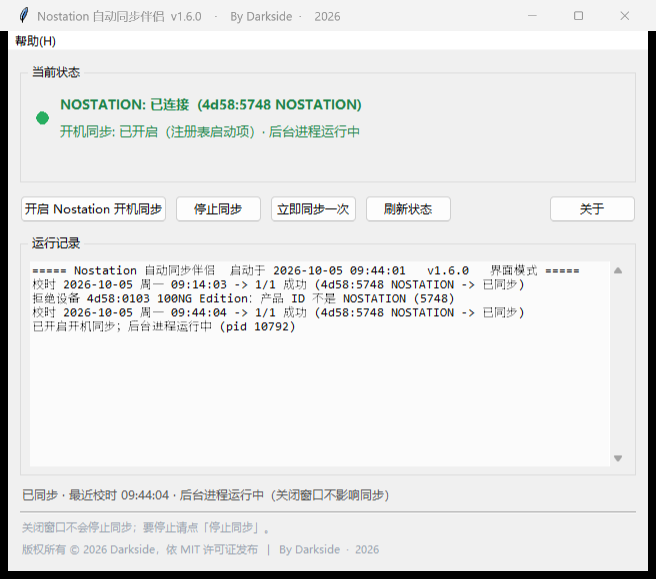
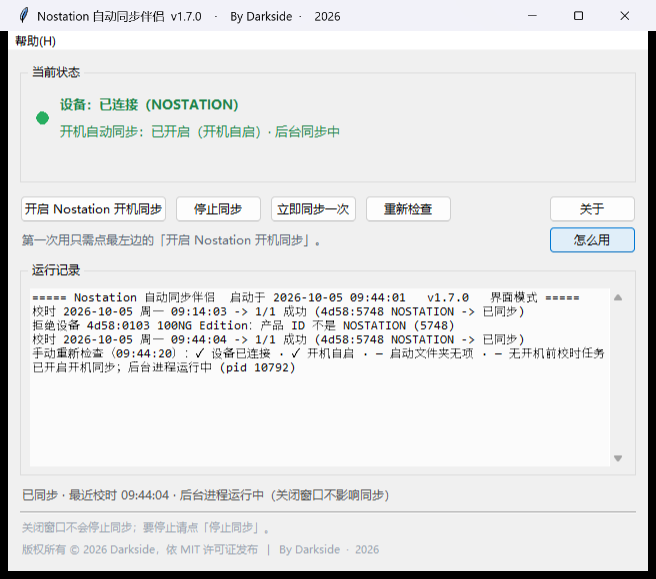
feat(v1.7.0): 新增「怎么用」帮助页；「重新检查」不再点了没反应
反馈：点了「刷新状态」日志里什么也不出现，看着像没反应。

原因：refresh() 只调 _collect_state/_apply_state 刷界面文字，不写任何日志；
状态本来就正常时，唯一的反馈就是状态栏文字闪一下，等于没有反馈。

改动：
- 「重新检查」改为写入运行记录，逐项列出结果，例如
  「手动重新检查（09:44:20）：✓ 设备已连接 · ✓ 开机自启 · — 启动文件夹无项
   · — 无开机前校时任务 · ✓ 后台同步运行中」，✓ 正常 / ✗ 有问题 / — 本来就没设置；
  有问题时补充一行说明（路径失效、后台进程没在跑等）
- 按钮「刷新状态」改名「重新检查」，更贴合它实际做的事
- 新增帮助页（菜单 帮助 → 怎么用，以及按钮下方「怎么用」按钮）：
  四个按钮逐个说明作用/结果/使用时机、指示灯含义、状态区读法、
  按钮为什么变灰、日志每行的意思、常见问题（含"拒绝设备"为什么正常）
- 界面文案降低门槛：不再显示 4d58:5748 这类设备 ID（完整 ID 仍写日志便于排查），
  「注册表启动项(路径已失效)」改为「开机自启(路径已失效，运行一次即可自动修正)」，
  「计划任务」改为「开机前校时任务」
- 按钮下方加一行引导：「第一次用只需点最左边的「开启 Nostation 开机同步」。」
  （先 pack 右侧按钮再放文字，避免文字过长把按钮挤掉）
- README 补上按钮对照表、状态区读法、置灰原因、日志含义
- assets/ui-preview.png 用 1.7.0 界面重新抓取

另补：CHANGELOG 缺 1.6.0 一条（当时直接改了版本号），现已补记。

diff --git a/companion_app.py b/companion_app.py
@@ -37,10 +37,15 @@ import traceback
 
 APP_TITLE = "Nostation 自动同步伴侣"
 APP_NAME_EN = "Nostation Auto Sync Companion"
-APP_VERSION = "1.6.0"
-APP_BUILD = 160
+APP_VERSION = "1.7.0"
+APP_BUILD = 170
 # 版本历史（每次迭代都要改 APP_VERSION / APP_BUILD 并在这里记一行）
 CHANGELOG = [
+    ("1.7.0", "新增「怎么用」帮助页，逐个说明四个按钮、指示灯、状态区、日志含义与"
+              "常见问题；「重新检查」会写明本次检查结果，不再点了没反应；"
+              "按钮下方加引导提示，界面文案去掉对普通用户无意义的设备 ID 与术语"),
+    ("1.6.0", "改为 MIT 许可证开源发布；许可条款与「关于」同步改写，"
+              "exe 属性里的版权信息也改为 MIT License"),
     ("1.5.5", "「关于」与许可条款里写明：本软件免费但【不是开源软件】，"
               "并显示项目主页；修正图标尺寸预览图的排版错位"),
     ("1.5.4", "修复桌面上一直挂着一个 420×200 启动画面：PyInstaller 的闪屏在"
@@ -459,6 +464,154 @@ def license_message():
     return "\n".join(head + [LICENSE_TERMS] + tail)
 
 
+def help_text():
+    """使用说明：每个按钮/指示灯是干什么的（面向第一次用的人）。"""
+    return """\
+这个软件只做一件事：让你的 NOSTATION hub 每次开机自动校准时间，
+不用再手动打开 config.matrix-lab.com 网页点同步。
+
+──────────────────────────────────────────
+一、四个按钮是干什么的
+──────────────────────────────────────────
+【开启 Nostation 开机同步】——最常用的按钮，点一次就好
+    作用：把开机自启装到系统里（写入当前用户的启动项），
+          并立刻启动后台同步进程。
+    结果：以后每次开机自动校时；现在也会马上同步一次。
+    提示：点一次就够，不需要每次开机都点。重复点不会出问题。
+
+【停止同步】——想彻底关掉时点它
+    作用：清理全部自启项（注册表项、启动文件夹、计划任务），
+          并结束后台同步进程。
+    结果：程序不再自动校时；清理完会逐项核验，确认没有残留。
+    提示：设备没插着也能点（故意设计成这样，否则拔了设备就关不掉）。
+
+【立即同步一次】——手动校时
+    作用：马上把本机时间写入设备一次。
+    结果：运行记录里会多一行「校时 …… 成功」。
+    提示：适合刚开机还没触发自动同步、或想确认设备通不通的时候。
+
+【重新检查】——刷新界面显示的状态
+    作用：重新核对五件事并显示出来：① 设备插没插 ② 开机自启在不在
+          ③ 启动文件夹里有没有 ④ 有没有开机前校时任务 ⑤ 后台同步在不在跑。
+    结果：运行记录里会写一行「手动重新检查：✓…✗…」，一眼能看出哪项不对。
+    提示：界面每 3 秒会自动检查「设备插拔」，但另外几项不会自动重查；
+          你手动改过自启、或觉得显示和实际不符时，点它。
+
+──────────────────────────────────────────
+二、上面那个状态区怎么看
+──────────────────────────────────────────
+左边的小圆点（指示灯）
+    绿色 = 后台同步进程在运行      红色 = 后台同步没在运行
+    —— 它反映的是「同步程序在不在跑」，不是「设备插没插」。
+
+设备：
+    已连接（NOSTATION）            设备正常，可以校时
+    未检测到 NOSTATION（请检查 USB 连接）
+                                  没找到设备；此时下面两个需要设备的
+                                  按钮会变灰，点不动
+
+开机自动同步：
+    已开启（开机自启）· 后台同步中  一切正常
+    未开启                          点「开启…」按钮即可
+    已开启（开机自启(路径已失效…)）  程序被挪过位置，运行一次会自动修正
+
+──────────────────────────────────────────
+三、为什么有的按钮是灰的
+──────────────────────────────────────────
+没检测到 NOSTATION 时，「开启开机同步」和「立即同步一次」会变灰不能点，
+这是故意的 —— 防止误操作。插好设备后 3 秒内会自动恢复，也可以点
+「重新检查」立即恢复。
+
+「停止同步」任何时候都能点：设备拔了、收起来了，你仍然要能关掉开机自启。
+
+──────────────────────────────────────────
+四、运行记录里的那几行是什么意思
+──────────────────────────────────────────
+校时 2026-10-05 周一 09:14:03 -> 1/1 成功 (… -> 已同步)
+    成功把本机时间写进设备。1/1 表示找到 1 台 NOSTATION、成功 1 台。
+
+拒绝设备 4d58:0103 100NG Edition：产品 ID 不是 NOSTATION (5748)
+    这是正常现象，不用担心。你机器上还有别的 Matrix Lab 设备时，
+    程序会检查它、发现不是 NOSTATION 就拒绝操作，并记录一行作为证明：
+    「本程序只动 NOSTATION 这一台」。同一台设备每次运行只记一条。
+
+未检测到连接（设备已断开），操作按钮已置灰
+    设备被拔掉了，程序自动暂停校时，不会报错。
+
+手动重新检查（09:20:11）：✓ 设备已连接 · ✓ 开机自启 · …
+    你点了「重新检查」的结果，✓ 正常、✗ 有问题、— 表示该项本来就没设置。
+
+每次打开程序都会清空旧日志，只留本次运行的内容。
+
+──────────────────────────────────────────
+五、常见问题
+──────────────────────────────────────────
+问：点了「开启开机同步」之后，我还需要留着这个窗口吗？
+答：不用。关掉窗口不影响同步，后台进程会继续工作。
+
+问：怎么知道它真的在自动同步？
+答：看指示灯是不是绿色；或者过一会儿点「重新检查」，
+    运行记录里会有新的「校时 …… 成功」。（默认每 30 分钟校一次）
+
+问：提示「未检测到连接」怎么办？
+答：① 确认 USB 线插好、hub 已开机 ② 换一个 USB 口试试
+    ③ 点「重新检查」 ④ 还是不行就看「帮助 → 未检测到连接时怎么办」。
+
+问：我把程序挪到别的文件夹 / 改了名字，需要重新设置吗？
+答：不需要。运行一次就会自动把开机自启改到新位置。
+
+问：怎么彻底卸载？
+答：先点「停止同步」，再删掉这个 exe 就行。程序不写系统目录，
+    数据只在 %LOCALAPPDATA%\\NostationSync（可以直接删）。
+
+问：它会不会偷偷联网、上传数据？
+答：不会。全程只与本机 USB 设备通信，不访问网络。
+
+问：运行记录里老出现「拒绝设备」，是不是有问题？
+答：不是。见上面第四节。程序只操作 NOSTATION，其它设备一律拒绝并留记录。
+"""
+
+
+def show_text_dialog(parent, title, body, width=78, height=32):
+    """用一个可滚动、可复制的对话框显示长文本（比 MessageBox 好排版）。"""
+    import tkinter as tk
+    from tkinter import ttk
+
+    win = tk.Toplevel(parent) if parent is not None else tk.Tk()
+    win.title(title)
+    try:
+        win.transient(parent)
+    except Exception:
+        pass
+    try:
+        win.geometry("{}x{}".format(int(width * 9.6), int(height * 20)))
+    except Exception:
+        pass
+
+    frame = ttk.Frame(win, padding=10)
+    frame.pack(fill="both", expand=True)
+    txt = tk.Text(frame, wrap="word", font=("Microsoft YaHei UI", 10),
+                  background="#fbfbfb", relief="flat", padx=8, pady=6)
+    sb = ttk.Scrollbar(frame, orient="vertical", command=txt.yview)
+    txt.configure(yscrollcommand=sb.set)
+    txt.pack(side="left", fill="both", expand=True)
+    sb.pack(side="right", fill="y")
+    txt.insert("1.0", body)
+    txt.configure(state="disabled")
+
+    bar = ttk.Frame(win, padding=(10, 0, 10, 10))
+    bar.pack(fill="x")
+    ttk.Button(bar, text="关闭", command=win.destroy).pack(side="right")
+    try:
+        win.bind("<Escape>", lambda e: win.destroy())
+        win.focus_force()
+    except Exception:
+        pass
+    if parent is None:
+        win.mainloop()
+    return win
+
+
 def show_license():
     """显示 UAC 无关的许可对话框。返回 MessageBox 结果码，失败返回 None。"""
     try:
@@ -588,6 +741,22 @@ def enumerate_raw_hid(use_cache=True):
 def describe(d):
     name = d.get("product_string") or KNOWN_NAMES.get(d["product_id"], "未知设备")
     return "{:04x}:{:04x} {}".format(d["vendor_id"], d["product_id"], name)
+
+
+def hub_brief():
+    """给界面用的一句话设备描述。
+
+    界面上不显示 4d58:5748 这种 ID —— 对普通用户没意义又容易困惑；
+    完整 ID 仍会写进日志，需要排查问题时看日志即可。
+    """
+    try:
+        targets = pick_targets()
+    except Exception:
+        targets = []
+    if not targets:
+        return ""
+    name = targets[0].get("product_string") or "NOSTATION"
+    return name.replace("NOSTATION ", "NOSTATION ").strip()
 
 
 NOSTATION_PRODUCT_TAG = "NOSTATION"
@@ -1835,10 +2004,11 @@ class App:
         self.lamp.grid(row=0, column=0, rowspan=2, padx=(2, 8))
         self.lamp_id = self.lamp.create_oval(2, 2, 14, 14, fill="#c0392b", outline="")
 
-        self.hub_label = ttk.Label(box, text="NOSTATION: 检测中…",
+        self.hub_label = ttk.Label(box, text="设备：检测中…",
                                    font=("Microsoft YaHei UI", 10, "bold"))
         self.hub_label.grid(row=0, column=1, sticky="w")
-        self.auto_label = ttk.Label(box, text="开机同步: 检测中…", font=("Microsoft YaHei UI", 10))
+        self.auto_label = ttk.Label(box, text="开机自动同步：检测中…",
+                                    font=("Microsoft YaHei UI", 10))
         self.auto_label.grid(row=1, column=1, sticky="w", pady=(4, 0))
         box.columnconfigure(1, weight=1)
 
@@ -1848,16 +2018,28 @@ class App:
         self.warn_label.grid(row=2, column=1, sticky="w", pady=(6, 0))
 
         btns = ttk.Frame(outer)
-        btns.pack(fill="x", pady=12)
-        self.btn_start = ttk.Button(btns, text="开启 Nostation 开机同步", command=self.on_start)
+        btns.pack(fill="x", pady=(12, 4))
+        self.btn_start = ttk.Button(btns, text="开启 Nostation 开机同步",
+                                    command=self.on_start)
         self.btn_start.pack(side="left")
         self.btn_stop = ttk.Button(btns, text="停止同步", command=self.on_stop)
         self.btn_stop.pack(side="left", padx=8)
         self.btn_sync = ttk.Button(btns, text="立即同步一次", command=self.on_sync_once)
         self.btn_sync.pack(side="left")
-        self.btn_refresh = ttk.Button(btns, text="刷新状态", command=self.refresh)
+        self.btn_refresh = ttk.Button(btns, text="重新检查", command=self.refresh)
         self.btn_refresh.pack(side="left", padx=8)
         ttk.Button(btns, text="关于", command=self.on_about).pack(side="right")
+
+        # 每个按钮是干什么的 —— 放在按钮正下方，点一下就有说明
+        tip = ttk.Frame(outer)
+        tip.pack(fill="x", pady=(0, 8))
+        # 先放右边的按钮并 pack，再放左边文字，避免文字过长把按钮挤没
+        ttk.Button(tip, text="怎么用", command=self.on_help).pack(side="right")
+        ttk.Label(
+            tip,
+            text="第一次用只需点最左边的「开启 Nostation 开机同步」。",
+            foreground="#5a6673", font=("Microsoft YaHei UI", 9),
+        ).pack(side="left")
 
         # 需要 hub 在线才能用的按钮（「停止同步」不在此列，断连时也要能停）
         self.hub_buttons = (self.btn_start, self.btn_sync)
@@ -1900,6 +2082,8 @@ class App:
         tk = self.tk
         menubar = tk.Menu(self.root)
         m_help = tk.Menu(menubar, tearoff=0)
+        m_help.add_command(label="怎么用（每个按钮是干什么的）", command=self.on_help)
+        m_help.add_separator()
         m_help.add_command(label="关于 {}".format(APP_TITLE), command=self.on_about)
         m_help.add_command(label="查看许可条款", command=self.on_license)
         m_help.add_separator()
@@ -1976,7 +2160,45 @@ class App:
 
     # ------------------------------------------------------------ 状态刷新 --
     def refresh(self):
-        self.run_async(self._collect_state, self._apply_state)
+        """重新检查全部状态（比自动轮询查得更全）。
+
+        自动轮询（tick，每 3 秒）只看设备插拔和日志；这里还会重新核对
+        开机自启、启动文件夹、开机前任务、后台进程，并把结果写进运行记录，
+        否则用户点完看不到任何反馈，会以为按钮没反应。
+        """
+        self.set_status("正在重新检查…")
+        self.run_async(self._collect_state, self._on_state_refreshed)
+
+    def _on_state_refreshed(self, state):
+        self._apply_state(state)
+        if not isinstance(state, dict):
+            return
+        items = []
+        items.append("✓ 设备已连接" if state.get("hub") else "✗ 未检测到设备")
+        if state.get("registry"):
+            items.append("✓ 开机自启" if state.get("registry_ok")
+                         else "✗ 开机自启(路径已失效)")
+        else:
+            items.append("✗ 开机自启未设置")
+        items.append("✓ 启动文件夹项" if state.get("shortcut") else "— 启动文件夹无项")
+        items.append("✓ 开机前校时任务" if state.get("task") else "— 无开机前校时任务")
+        items.append("✓ 后台同步运行中" if state.get("watcher") else "✗ 后台同步未运行")
+        stamp = datetime.datetime.now().strftime("%H:%M:%S")
+        line = "手动重新检查（{}）：{}".format(stamp, " · ".join(items))
+        self.append_log(line)
+        log("界面：" + line)
+        detail = state.get("hub_name") or ""
+        if detail:
+            self.append_log("　设备：{}".format(detail))
+        extra = []
+        if state.get("task"):
+            extra.append("已注册「开机前校时」计划任务")
+        if state.get("shortcut"):
+            extra.append("启动文件夹里有快捷方式")
+        if not state.get("watcher"):
+            extra.append("后台同步未运行，点「开启开机同步」可重新拉起")
+        if extra:
+            self.append_log("　" + "；".join(extra))
 
     def _collect_state(self):
         targets = []
@@ -1991,6 +2213,7 @@ class App:
         return {
             "hub": bool(targets),
             "hub_name": describe(targets[0]) if targets else "",
+            "hub_brief": hub_brief() if targets else "",
             "registry": bool(reg_target),
             "registry_ok": bool(reg_target) and exe_path().lower() in reg_target.lower(),
             "task": task_exists(),
@@ -2005,35 +2228,38 @@ class App:
         self.lamp.itemconfigure(self.lamp_id, fill="#27ae60" if running else "#c0392b")
 
         if state["hub"]:
-            self.hub_label.configure(text="NOSTATION: 已连接  ({})".format(state["hub_name"]),
+            brief = state.get("hub_brief") or "NOSTATION"
+            self.hub_label.configure(text="设备：已连接（{}）".format(brief),
                                      foreground="#1e8449")
         else:
-            self.hub_label.configure(text="NOSTATION: 未检测到连接", foreground="#c0392b")
+            self.hub_label.configure(text="设备：未检测到 NOSTATION（请检查 USB 连接）",
+                                     foreground="#c0392b")
 
         how = []
         if state["registry"]:
-            how.append("注册表启动项" + ("" if state["registry_ok"] else "(路径已失效)"))
+            how.append("开机自启" if state["registry_ok"] else "开机自启(路径已失效，运行一次即可自动修正)")
         if state["shortcut"]:
             how.append("启动文件夹")
         if state["task"]:
-            how.append("计划任务")
+            how.append("开机前校时任务")
         configured = bool(how)
 
         if running:
             self.auto_label.configure(
-                text="开机同步: 已开启（{}）· 后台进程运行中".format(" + ".join(how) or "仅有后台进程"),
+                text="开机自动同步：已开启（{}）· 后台同步中".format(
+                    " + ".join(how) or "仅后台进程在运行"),
                 foreground="#1e8449")
         else:
-            extra = "（已配置自启动，重启后生效）" if configured else ""
-            self.auto_label.configure(text="开机同步: 未开启" + extra, foreground="#c0392b")
+            extra = "（已设置开机自启，下次开机生效）" if configured else ""
+            self.auto_label.configure(
+                text="开机自动同步：未开启" + extra, foreground="#c0392b")
 
         # 与设备相关的操作按钮：没连上就置灰
         self.hub_online = state["hub"]
         self._apply_hub_gate()
 
         if state["hub"]:
-            self.set_status("状态更新于 {}  ·  免安装单文件".format(
-                datetime.datetime.now().strftime("%H:%M:%S")))
+            self.set_status("状态正常  ·  免安装单文件，删除程序即可完全卸载")
         else:
             self.set_status("未检测到连接：请确认 NOSTATION 已通过 USB 连接到本机  ·  "
                             "已自动暂停校时")
@@ -2225,6 +2451,19 @@ class App:
             self.refresh()
 
         self.run_async(work, done)
+
+    def on_help(self):
+        """使用说明：每个按钮与状态的含义。"""
+        self.append_log("打开「怎么用」使用说明")
+        try:
+            show_text_dialog(self.root, "怎么用  ·  {}".format(APP_TITLE), help_text())
+        except Exception as exc:
+            log("帮助对话框失败: {}".format(exc))
+            try:
+                ctypes.windll.user32.MessageBoxW(
+                    0, help_text(), "怎么用  ·  {}".format(APP_TITLE), 0x40 | 0x40000)
+            except Exception:
+                pass
 
     def on_about(self):
         self.append_log("打开「关于」对话框")

diff --git a/tools/make_ui_screenshot.py b/tools/make_ui_screenshot.py
@@ -122,6 +122,8 @@ def main():
         "校时 2026-10-05 周一 09:14:03 -> 1/1 成功 (4d58:5748 NOSTATION -> 已同步)",
         "拒绝设备 4d58:0103 100NG Edition：产品 ID 不是 NOSTATION (5748)",
         "校时 2026-10-05 周一 09:44:04 -> 1/1 成功 (4d58:5748 NOSTATION -> 已同步)",
+        "手动重新检查（09:44:20）：✓ 设备已连接 · ✓ 开机自启 · — 启动文件夹无项 · "
+        "— 无开机前校时任务 · ✓ 后台同步运行中",
         "已开启开机同步；后台进程运行中 (pid 10792)",
     ]
     try:
